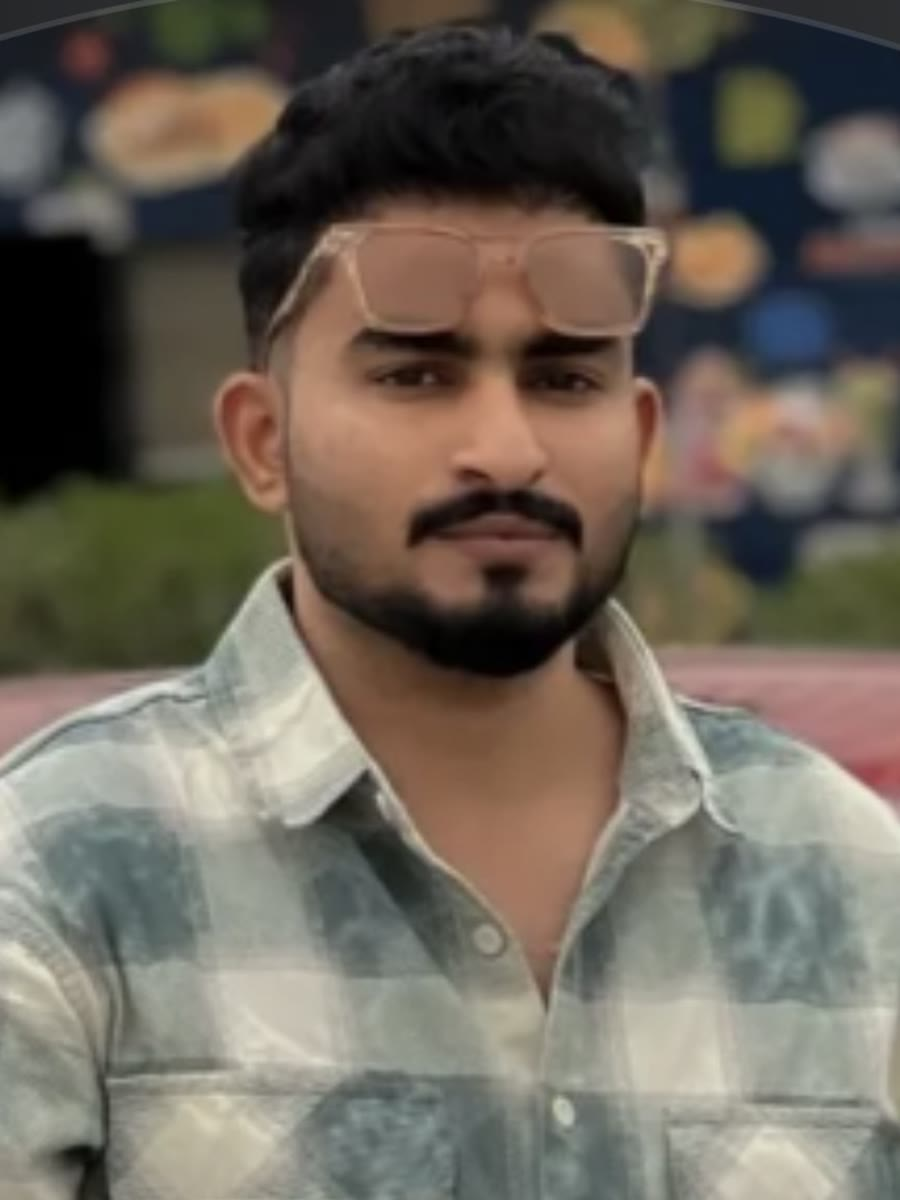
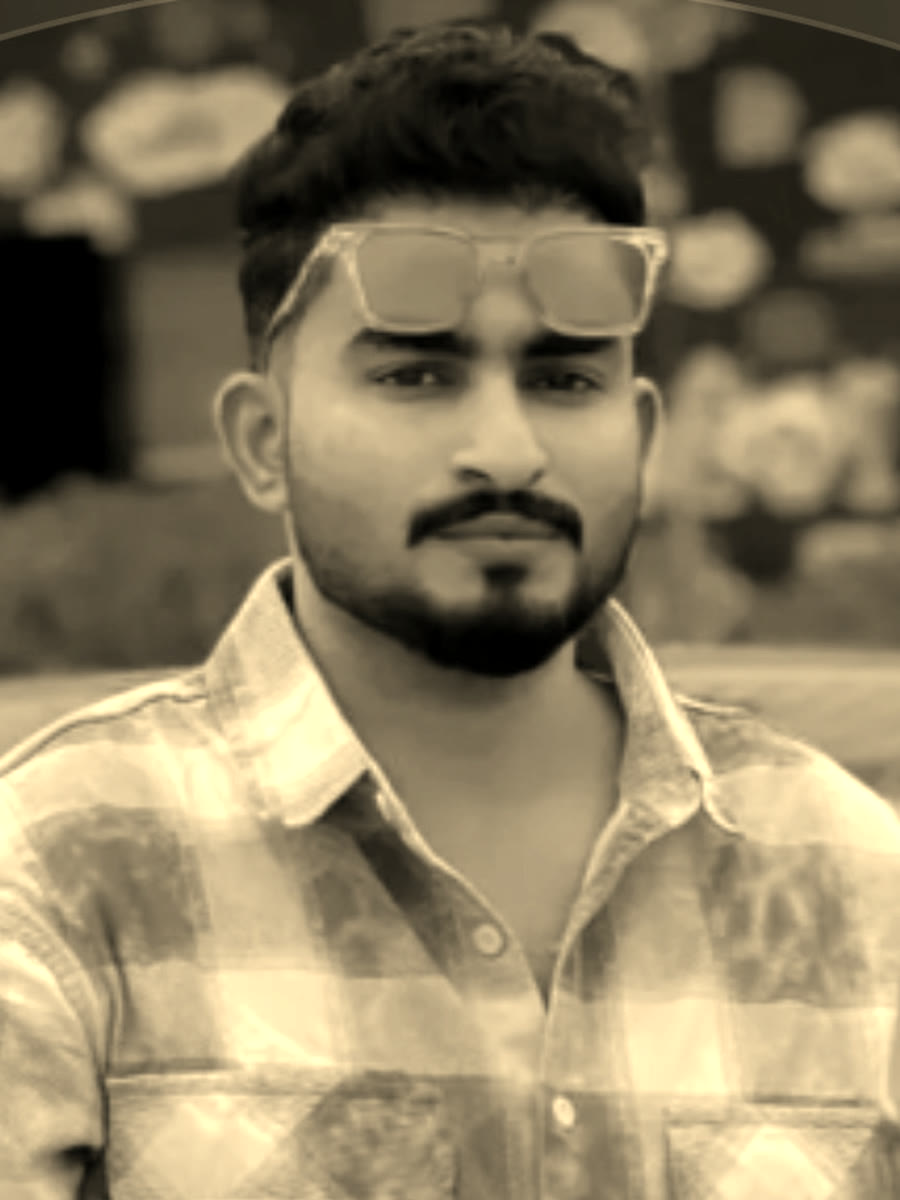
feat: sepia-grade both portraits; point preview tags at renamed repo

diff --git a/index.html b/index.html
@@ -15,8 +15,8 @@
 <meta property="og:type"        content="website">
 <meta property="og:title"       content="Rushda &amp; Shareef — Wedding Invitation">
 <meta property="og:description" content="Together with their families, we invite you to celebrate our wedding.">
-<meta property="og:image"       content="https://murthasa-ibrahim.github.io/rushda-shafeeque/preview.jpg">
-<meta property="og:url"         content="https://murthasa-ibrahim.github.io/rushda-shafeeque/">
+<meta property="og:image"       content="https://murthasa-ibrahim.github.io/rushda-shareef/preview.jpg">
+<meta property="og:url"         content="https://murthasa-ibrahim.github.io/rushda-shareef/">
 <meta name="twitter:card"       content="summary_large_image">
 
 <link rel="preconnect" href="https://fonts.googleapis.com">